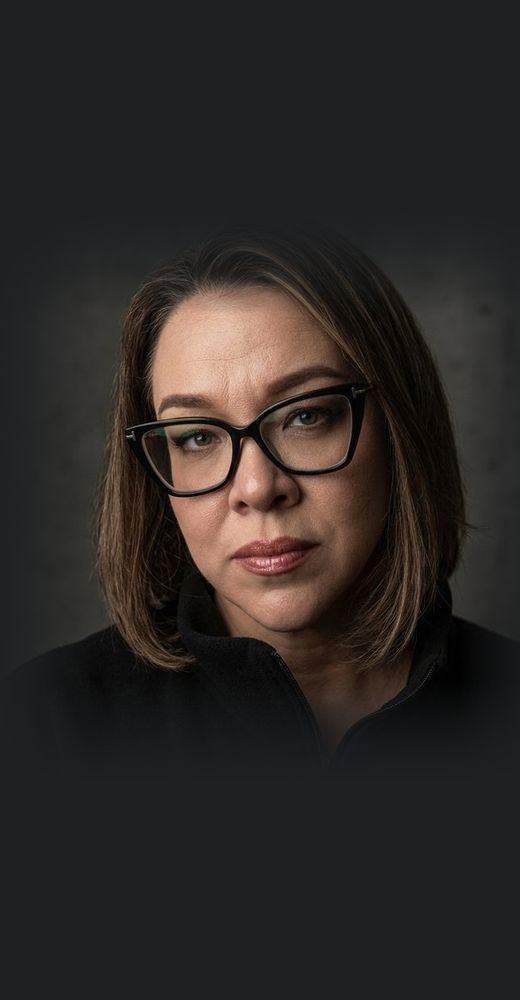
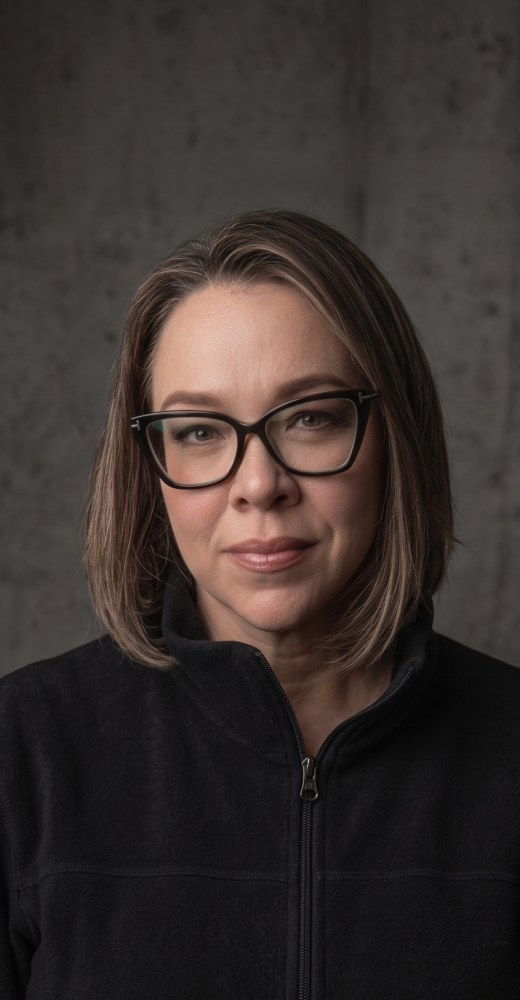
team: Taurus Asia Production (taurusproduction.net) на странице; портрет Анны мягче — в «Руководстве» и в заставке

diff --git a/team/index.html b/team/index.html
@@ -78,6 +78,10 @@
   .marks img.nv{height:clamp(84px,12vw,132px);margin:-14px}
   .marks .x{font-family:var(--mono);font-size:22px;color:var(--mute)}
   .hbot{display:flex;flex-direction:column-reverse}
+  .cos{display:flex;align-items:center;gap:14px;margin-top:26px;padding-top:18px;border-top:1px solid rgba(255,255,255,.14);font-family:var(--mono);font-size:12px;letter-spacing:.14em;text-transform:uppercase;color:var(--mute);flex-wrap:wrap}
+  .cos img{height:60px;width:60px;border-radius:8px;filter:grayscale(1) brightness(1.1)}
+  .cos a{color:var(--paper);text-decoration:none;border-bottom:1px solid rgba(255,255,255,.3)}
+  .cos a:hover{border-color:var(--paper)}
   @media (min-width:1000px){
     .hbot{flex-direction:row;justify-content:space-between;align-items:flex-end;gap:48px}
     .hero .marks{margin:0 0 4px;gap:26px;flex-shrink:0}
@@ -221,8 +225,9 @@
   .btn.ghost:hover{border-color:var(--paper)}
   .cities{margin-top:30px;font-family:var(--mono);font-size:12.5px;letter-spacing:.2em;text-transform:uppercase;color:var(--mute)}
   footer{border-top:1px solid var(--line);padding:38px 0 52px;font-size:13px;color:var(--mute)}
-  footer .wrap{display:grid;grid-template-columns:repeat(3,1fr);gap:24px 44px}
-  @media (max-width:760px){footer .wrap{grid-template-columns:1fr}}
+  footer .wrap{display:grid;grid-template-columns:repeat(4,1fr);gap:24px 36px}
+  @media (max-width:900px){footer .wrap{grid-template-columns:1fr 1fr}}
+  @media (max-width:560px){footer .wrap{grid-template-columns:1fr}}
   .fcol b{display:block;font-family:var(--disp);font-weight:500;font-size:15px;letter-spacing:.08em;text-transform:uppercase;color:var(--paper)}
   .fcol span{display:block;margin-top:4px}
   footer a{text-decoration:none}
@@ -256,7 +261,7 @@
 
 <header class="hero" id="top">
   <div class="mosaic" aria-hidden="true">
-    <img src="assets/hero-anna-chakirtova.jpg" alt=""><img src="assets/hero-anara-zhunusova.jpg" alt=""><img src="assets/hero-aleksandr-andreyanov.jpg" alt=""><img src="assets/hero-ara-arush.jpg" alt=""><img src="assets/hero-kuanysh-stakhanov.jpg" alt="">
+    <img src="assets/hero-anna-chakirtova.jpg?v=2" alt=""><img src="assets/hero-anara-zhunusova.jpg" alt=""><img src="assets/hero-aleksandr-andreyanov.jpg" alt=""><img src="assets/hero-ara-arush.jpg" alt=""><img src="assets/hero-kuanysh-stakhanov.jpg" alt="">
   </div>
   <div class="scrim"></div>
   <div class="inner">
@@ -266,6 +271,7 @@
       <p class="logline">Кино, сериалы и реклама, где живые съёмки и AI-производство идут в одном графике и одном бюджете. Алматы и Джакарта, технология NEYRA.</p>
       <div class="marks"><img src="assets/td-znak.svg" alt="Digital Taurus Asia" width="96" height="100"><span class="x">×</span><img src="/assets/logo-neyra-vision.png" alt="Neyra Vision" width="120" height="120" class="nv"></div>
     </div>
+    <div class="cos"><img src="/assets/logo-taurus.png" alt="Taurus Asia Production" width="60" height="60"><span>Живые съёмки — <a href="https://taurusproduction.net" target="_blank" rel="noopener">Taurus Asia Production</a> · продюсерская компания Анны Чакиртовой и Анары Жунусовой · Алматы</span></div>
   </div>
 </header>
 
@@ -287,7 +293,7 @@
         <ol class="steps">
           <li><i>01</i><b>Питч и референсы</b><span>Логлайн, сценарий или идея. Отвечаем, что можно сделать и за сколько.</span></li>
           <li><i>02</i><b>Превиз и смета</b><span>Образы героев, ключевые сцены, тизер. Ориентир — тринадцать рабочих дней на сцену под ключ.</span></li>
-          <li><i>03</i><b>Производство</b><span>Живые съёмки Taurus и AI-блок Neyra Vision в одном графике.</span></li>
+          <li><i>03</i><b>Производство</b><span>Живые съёмки Taurus Asia Production и AI-блок Neyra Vision в одном графике.</span></li>
           <li><i>04</i><b>Постпродакшн и сдача</b><span>Сведение, цвет, звук, музыка. Материалы — в форматах под прокат и платформы.</span></li>
         </ol>
         <p class="nda">Материалы проекта не передаём третьим лицам. NDA подписываем до того, как получим сценарий.</p>
@@ -295,7 +301,7 @@
     </div>
     <div class="sub-h" style="margin-top:72px">Что делаем</div>
 <div class="does" style="margin-top:22px">
-      <div><b>Полный метр и сериалы</b><span>живые съёмки Taurus + AI-блок Neyra Vision в одном графике и бюджете</span></div>
+      <div><b>Полный метр и сериалы</b><span>живые съёмки Taurus Asia Production + AI-блок Neyra Vision в одном графике и бюджете</span></div>
       <div><b>Превиз и питч</b><span>раскадровки, образы героев, ключевые сцены и тизер — ещё до запуска съёмок</span></div>
       <div><b>Генерация и пост</b><span>AI-видео, сведение кадров, визуальные эффекты, цвет, звук и музыка</span></div>
       <div><b>Выход на рынки</b><span>Казахстан, Россия, США, Индонезия, Таиланд, Ближний Восток — через партнёров команды</span></div>
@@ -308,7 +314,7 @@
     <div class="rv">
       <div class="eyebrow">Фильмография</div>
       <h2>Фильмография</h2>
-      <p class="lead">Картины и сериалы Анны Чакиртовой и Анары Жунусовой — и проекты, которые делаем вместе с Neyra Vision.</p>
+      <p class="lead">Картины и сериалы <a href="https://taurusproduction.net" target="_blank" rel="noopener">Taurus Asia Production</a> — продюсерской компании Анны Чакиртовой и Анары Жунусовой — и проекты, которые делаем вместе с Neyra Vision.</p>
     </div>
 
     <div class="sub-h">Вышли</div>
@@ -451,7 +457,7 @@
       <div class="grp-h"><h3>Руководство</h3><span>Digital Taurus Asia × Neyra Vision</span></div>
       <div class="people lead3">
         <div class="p">
-          <div class="ph"><img src="assets/lead-anna-chakirtova.jpg?v=3" alt="Анна Чакиртова" width="720" height="720" loading="lazy"></div>
+          <div class="ph"><img src="assets/lead-anna-chakirtova.jpg?v=4" alt="Анна Чакиртова" width="720" height="720" loading="lazy"></div>
           <div class="n">Анна Чакиртова</div>
           <div class="r">Сооснователь и продюсер Taurus Asia Production</div>
           <p>«Приговор», «Қара бекіре». Ранее — исполнительный продюсер «Томирис» и «Дороги к матери» Акана Сатаева. Член Национальной киноакадемии и Альянса креативных индустрий.</p>
@@ -647,6 +653,7 @@
 <footer>
   <div class="wrap">
     <div class="fcol"><b>Digital Taurus Asia</b><span>ТОО «Digital Taurus Asia» · Алматы · AI-производство кино и видео</span></div>
+    <div class="fcol"><b>Taurus Asia Production</b><span>Алматы · кино и сериалы, живые съёмки · <a href="https://taurusproduction.net" target="_blank" rel="noopener">taurusproduction.net</a></span></div>
     <div class="fcol"><b>Neyra Vision Studio</b><span>Джакарта · Алматы · технология NEYRA</span></div>
     <div class="fcol"><b>Ссылки</b><span><a href="/">neyra.vision</a> · <a href="https://neyra.ai" target="_blank" rel="noopener">neyra.ai</a> · <a href="https://colibristudio.ai" target="_blank" rel="noopener">colibristudio.ai</a></span></div>
   </div>
